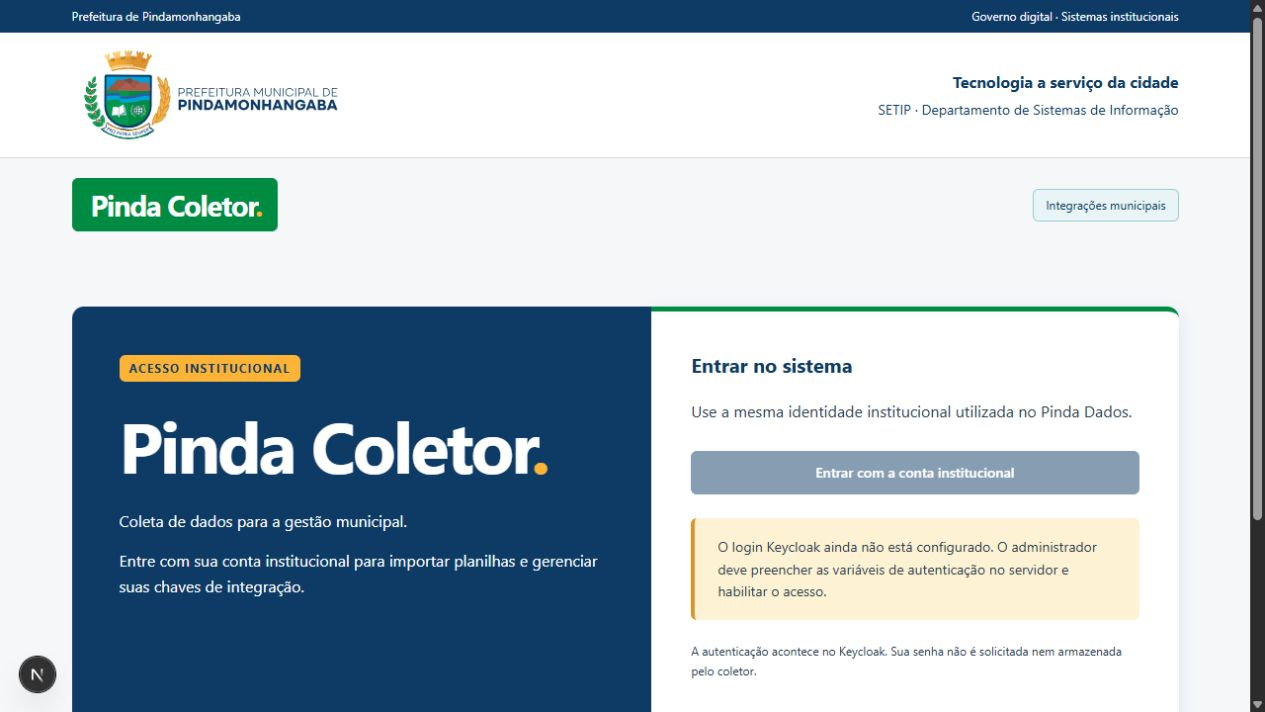
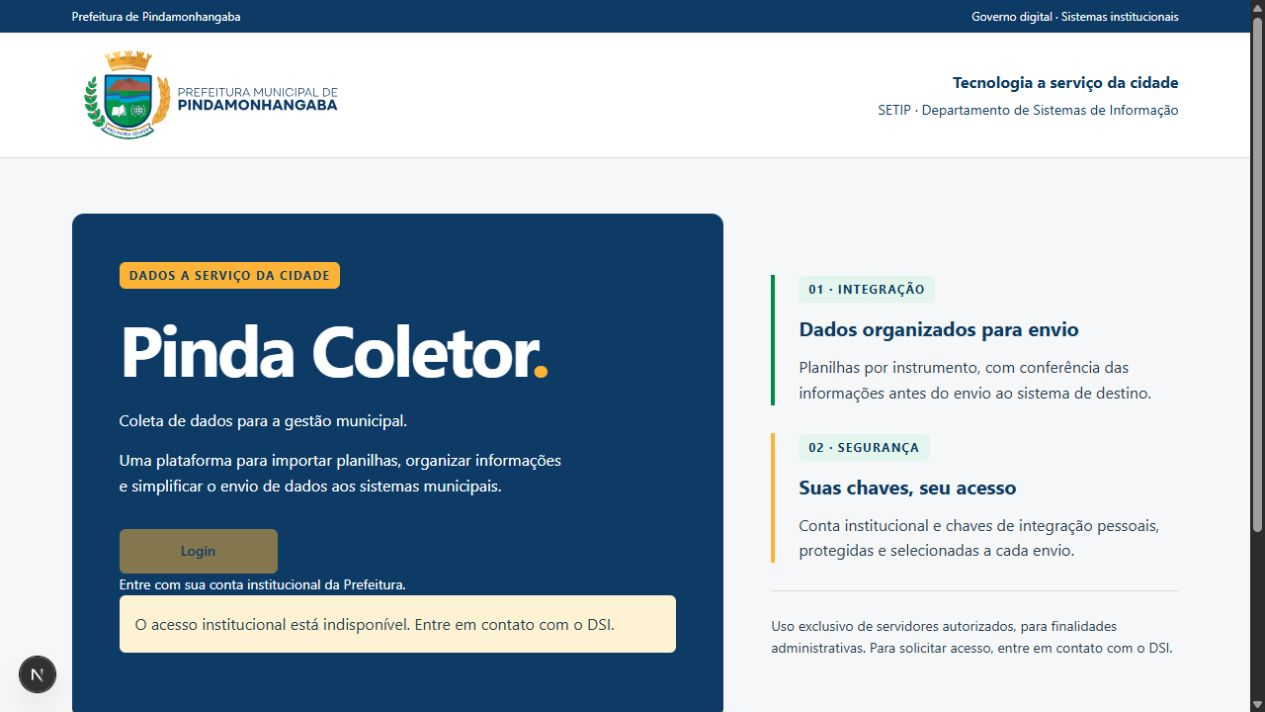
style: alinha login ao padrão visual do DadosPinda

Changed region(s): [[0.0308, 0.2472, 0.9249, 1.0], [0.8016, 0.2781, 0.9249, 0.309], [0.9866, 0.7107, 1.0, 0.7416]]

diff --git a/src/modules/auth/views/login-page.tsx b/src/modules/auth/views/login-page.tsx
@@ -13,40 +13,53 @@ export function LoginPage({
   return (
     <div className="shell">
       <InstitutionalHeader guest />
-      <main id="importacao" className="login-layout">
-        <section className="login-introduction">
-          <span className="eyebrow">ACESSO INSTITUCIONAL</span>
-          <h1>
-            Pinda Coletor<span>.</span>
+      <main id="importacao" className="welcome-layout" tabIndex={-1}>
+        <section className="welcome-hero" aria-labelledby="welcome-title">
+          <span className="eyebrow">Dados a serviço da cidade</span>
+          <h1 id="welcome-title">
+            Pinda Coletor<span aria-hidden="true">.</span>
           </h1>
-          <p>Coleta de dados para a gestão municipal.</p>
-          <p>
-            Entre com sua conta institucional para importar planilhas e
-            gerenciar suas chaves de integração.
+          <p className="introduction">
+            Coleta de dados para a gestão municipal.
           </p>
-        </section>
-        <section className="login-panel">
-          <h2>Entrar no sistema</h2>
-          <p>Use a mesma identidade institucional utilizada no Pinda Dados.</p>
-          <LoginButton enabled={configured} />
-          {!configured && (
-            <p className="notice">
-              O login Keycloak ainda não está configurado. O administrador deve
-              preencher as variáveis de autenticação no servidor e habilitar o
-              acesso.
+          <p className="welcome-description">
+            Uma plataforma para importar planilhas, organizar informações e
+            simplificar o envio de dados aos sistemas municipais.
+          </p>
+          <div className="welcome-access">
+            <LoginButton enabled={configured} />
+            <p>Entre com sua conta institucional da Prefeitura.</p>
+          </div>
+          {(!configured || hasError) && (
+            <p className="welcome-alert" role="alert">
+              {!configured
+                ? "O acesso institucional está indisponível. Entre em contato com o DSI."
+                : "Acesso institucional não autorizado ou indisponível. Entre em contato com o DSI."}
             </p>
           )}
-          {hasError && (
-            <p className="form-error" role="alert">
-              Não foi possível concluir o acesso. Confira com o administrador se
-              sua conta está habilitada e vinculada ao Keycloak.
-            </p>
-          )}
-          <p className="field-help">
-            A autenticação acontece no Keycloak. Sua senha não é solicitada nem
-            armazenada pelo coletor.
-          </p>
         </section>
+        <aside className="welcome-details" aria-label="Sobre a plataforma">
+          <div>
+            <span className="eyebrow">01 · Integração</span>
+            <h2>Dados organizados para envio</h2>
+            <p>
+              Planilhas por instrumento, com conferência das informações antes
+              do envio ao sistema de destino.
+            </p>
+          </div>
+          <div>
+            <span className="eyebrow">02 · Segurança</span>
+            <h2>Suas chaves, seu acesso</h2>
+            <p>
+              Conta institucional e chaves de integração pessoais, protegidas e
+              selecionadas a cada envio.
+            </p>
+          </div>
+          <p className="welcome-notice">
+            Uso exclusivo de servidores autorizados, para finalidades
+            administrativas. Para solicitar acesso, entre em contato com o DSI.
+          </p>
+        </aside>
       </main>
       <InstitutionalFooter />
     </div>

diff --git a/src/app/globals.css b/src/app/globals.css
@@ -1154,45 +1154,78 @@ td {
   text-decoration: underline;
   text-underline-offset: 3px;
 }
-.login-layout {
+.welcome-layout {
   display: grid;
-  grid-template-columns: 1.1fr 1fr;
-  gap: 0;
+  grid-template-columns: 1.6fr 1fr;
+  gap: 48px;
   padding-block: 56px;
+  align-items: center;
   min-height: 65vh;
 }
-.login-introduction {
+.welcome-hero {
   padding: 48px;
   background: var(--color-brand);
   color: var(--color-on-brand);
-  border-radius: var(--radius-panel) 0 0 var(--radius-panel);
+  border-radius: var(--radius-panel);
   border-bottom: 6px solid var(--color-accent-yellow);
 }
-.login-introduction h1 {
-  color: var(--color-on-brand);
+.welcome-hero h1 {
   font-size: clamp(3rem, 6vw, 4.5rem);
-  margin-block: 24px;
+  color: var(--color-on-brand);
+  margin-block: 20px;
 }
-.login-introduction h1 span {
+.welcome-hero h1 span {
   color: var(--color-accent-yellow);
 }
-.login-introduction .eyebrow {
+.welcome-hero .eyebrow {
   background: var(--color-accent-yellow);
   color: var(--color-brand);
 }
-.login-panel {
-  padding: 40px;
-  background: var(--color-surface);
-  border-top: 5px solid var(--color-brand-accent);
-  border-radius: 0 var(--radius-panel) var(--radius-panel) 0;
-  box-shadow: var(--shadow-panel);
+.welcome-description {
+  max-width: 52ch;
 }
-.login-panel h2 {
-  margin-bottom: 20px;
+.welcome-access {
+  margin-top: 32px;
 }
-.login-panel .button {
-  width: 100%;
-  margin-block: 12px 24px;
+.welcome-access .button {
+  background: var(--color-accent-yellow);
+  color: var(--color-brand);
+  min-width: 160px;
+}
+.welcome-access .button:hover:not(:disabled) {
+  background: var(--color-accent-orange);
+}
+.welcome-access p {
+  font-size: 0.875rem;
+  margin-bottom: 0;
+}
+.welcome-alert {
+  background: var(--color-surface-warning);
+  color: var(--color-text-dark);
+  padding: 16px;
+  border-radius: var(--radius-control);
+}
+.welcome-details {
+  display: grid;
+  gap: 28px;
+}
+.welcome-details > div {
+  padding-left: 24px;
+  border-left: 4px solid var(--color-brand-accent);
+}
+.welcome-details > div:nth-child(2) {
+  border-color: var(--color-accent-yellow);
+}
+.welcome-details h2 {
+  margin-block: 12px;
+}
+.welcome-details p {
+  margin-bottom: 0;
+}
+.welcome-notice {
+  font-size: 0.875rem;
+  border-top: 1px solid var(--color-border-light);
+  padding-top: 24px;
 }
 .form-error {
   color: var(--color-secondary-red);
@@ -1226,16 +1259,13 @@ td {
   text-underline-offset: 3px;
 }
 @media (max-width: 800px) {
-  .login-layout {
+  .welcome-layout {
     grid-template-columns: 1fr;
+    gap: 32px;
+    padding-block: 32px;
   }
-  .login-introduction {
-    padding: 32px;
-    border-radius: var(--radius-panel) var(--radius-panel) 0 0;
-  }
-  .login-panel {
-    padding: 24px;
-    border-radius: 0 0 var(--radius-panel) var(--radius-panel);
+  .welcome-hero {
+    padding: 28px;
   }
   .session-controls {
     gap: 10px;

diff --git a/src/shared/components/institutional-shell.tsx b/src/shared/components/institutional-shell.tsx
@@ -39,16 +39,18 @@ export function InstitutionalHeader({
           </div>
         </div>
       </header>
-      <div className="panel-bar container">
-        <Link className="product-brand" href="/">
-          Pinda Coletor<span aria-hidden="true">.</span>
-        </Link>
-        {userName ? (
-          <SessionControls name={userName} />
-        ) : (
-          <span className="environment">Integrações municipais</span>
-        )}
-      </div>
+      {!guest && (
+        <div className="panel-bar container">
+          <Link className="product-brand" href="/">
+            Pinda Coletor<span aria-hidden="true">.</span>
+          </Link>
+          {userName ? (
+            <SessionControls name={userName} />
+          ) : (
+            <span className="environment">Integrações municipais</span>
+          )}
+        </div>
+      )}
       {!guest && (
         <div className="panel-nav-band">
           <nav className="container panel-nav" aria-label="Navegação principal">

diff --git a/src/modules/auth/views/login-button.tsx b/src/modules/auth/views/login-button.tsx
@@ -7,7 +7,7 @@ export function LoginButton({ enabled }: { enabled: boolean }) {
   return (
     <>
       <button
-        className="button primary"
+        className="button"
         disabled={!enabled || busy}
         onClick={async () => {
           setBusy(true);
@@ -28,10 +28,10 @@ export function LoginButton({ enabled }: { enabled: boolean }) {
           }
         }}
       >
-        {busy ? "Redirecionando…" : "Entrar com a conta institucional"}
+        {busy ? "Redirecionando…" : "Login"}
       </button>
       {error && (
-        <p className="form-error" role="alert">
+        <p className="welcome-alert" role="alert">
           {error}
         </p>
       )}
